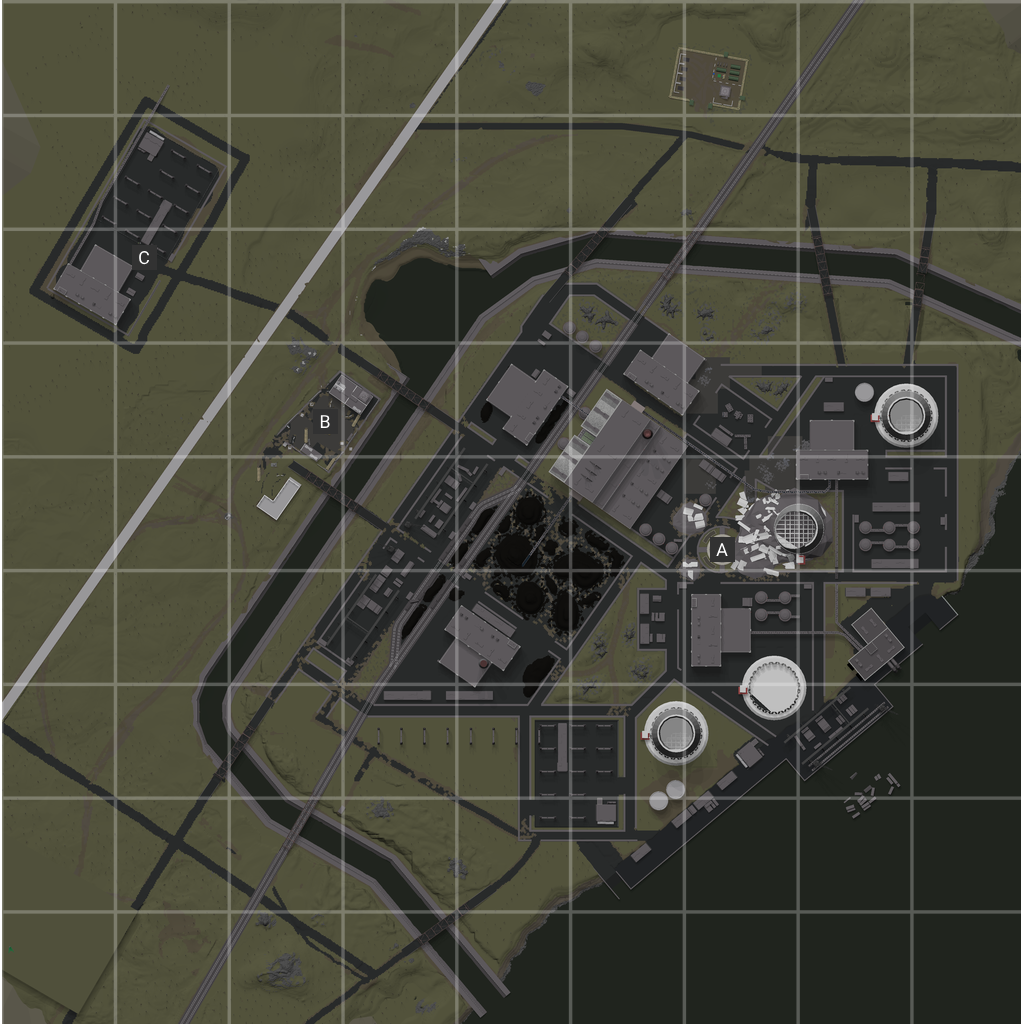
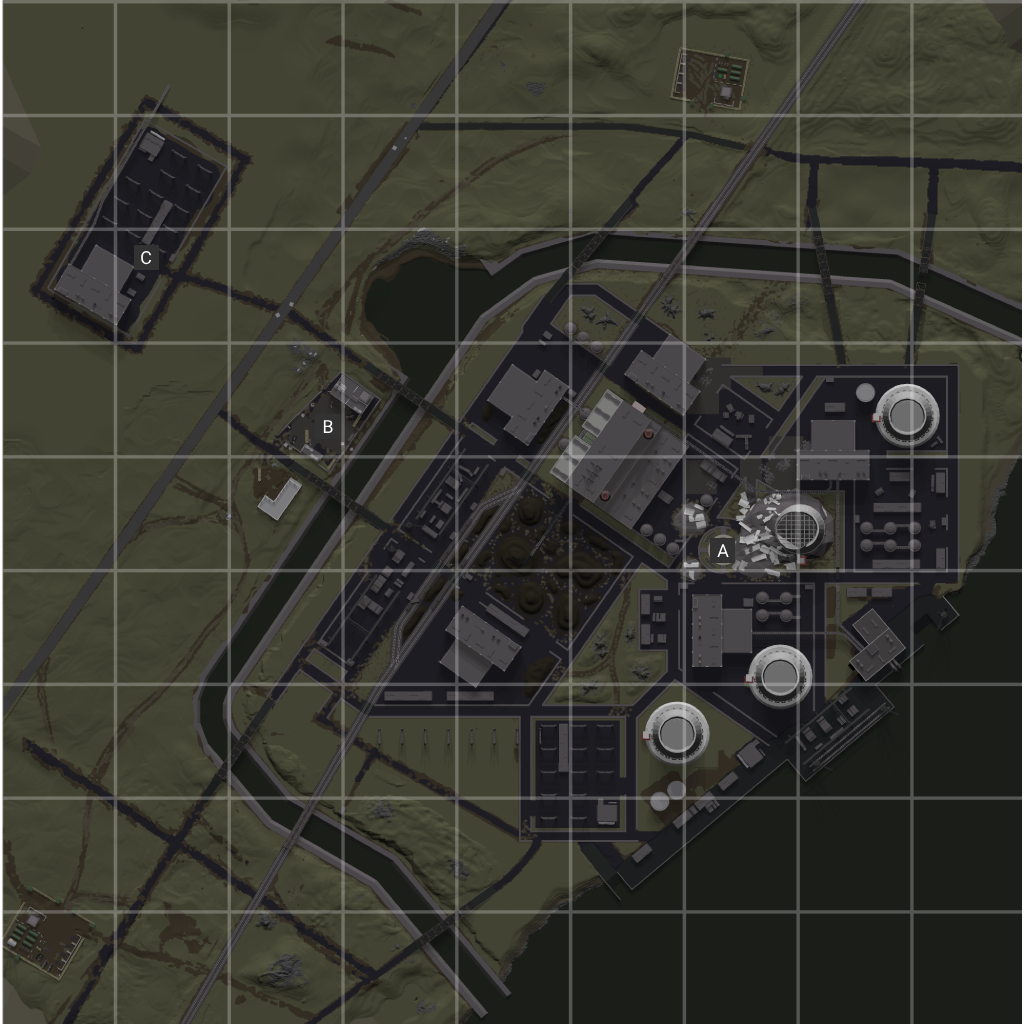
update powerplant

diff --git a/packages/mtc-artillery/src/config/maps.ts b/packages/mtc-artillery/src/config/maps.ts
@@ -117,13 +117,13 @@ export const gameMaps: Record<string, GameMap> = {
 
   powerplant: {
     heightmap: {
-      0: 0,
-      255: 476.80126953125,
+      0: 110.25238037109375,
+      255: 579.076416015625,
     },
     image: 'powerplant',
     inRotation: true,
     name: 'Powerplant',
-    size: calculateMapSize(160),
+    size: 3995,
   },
 
   radar_station: {
